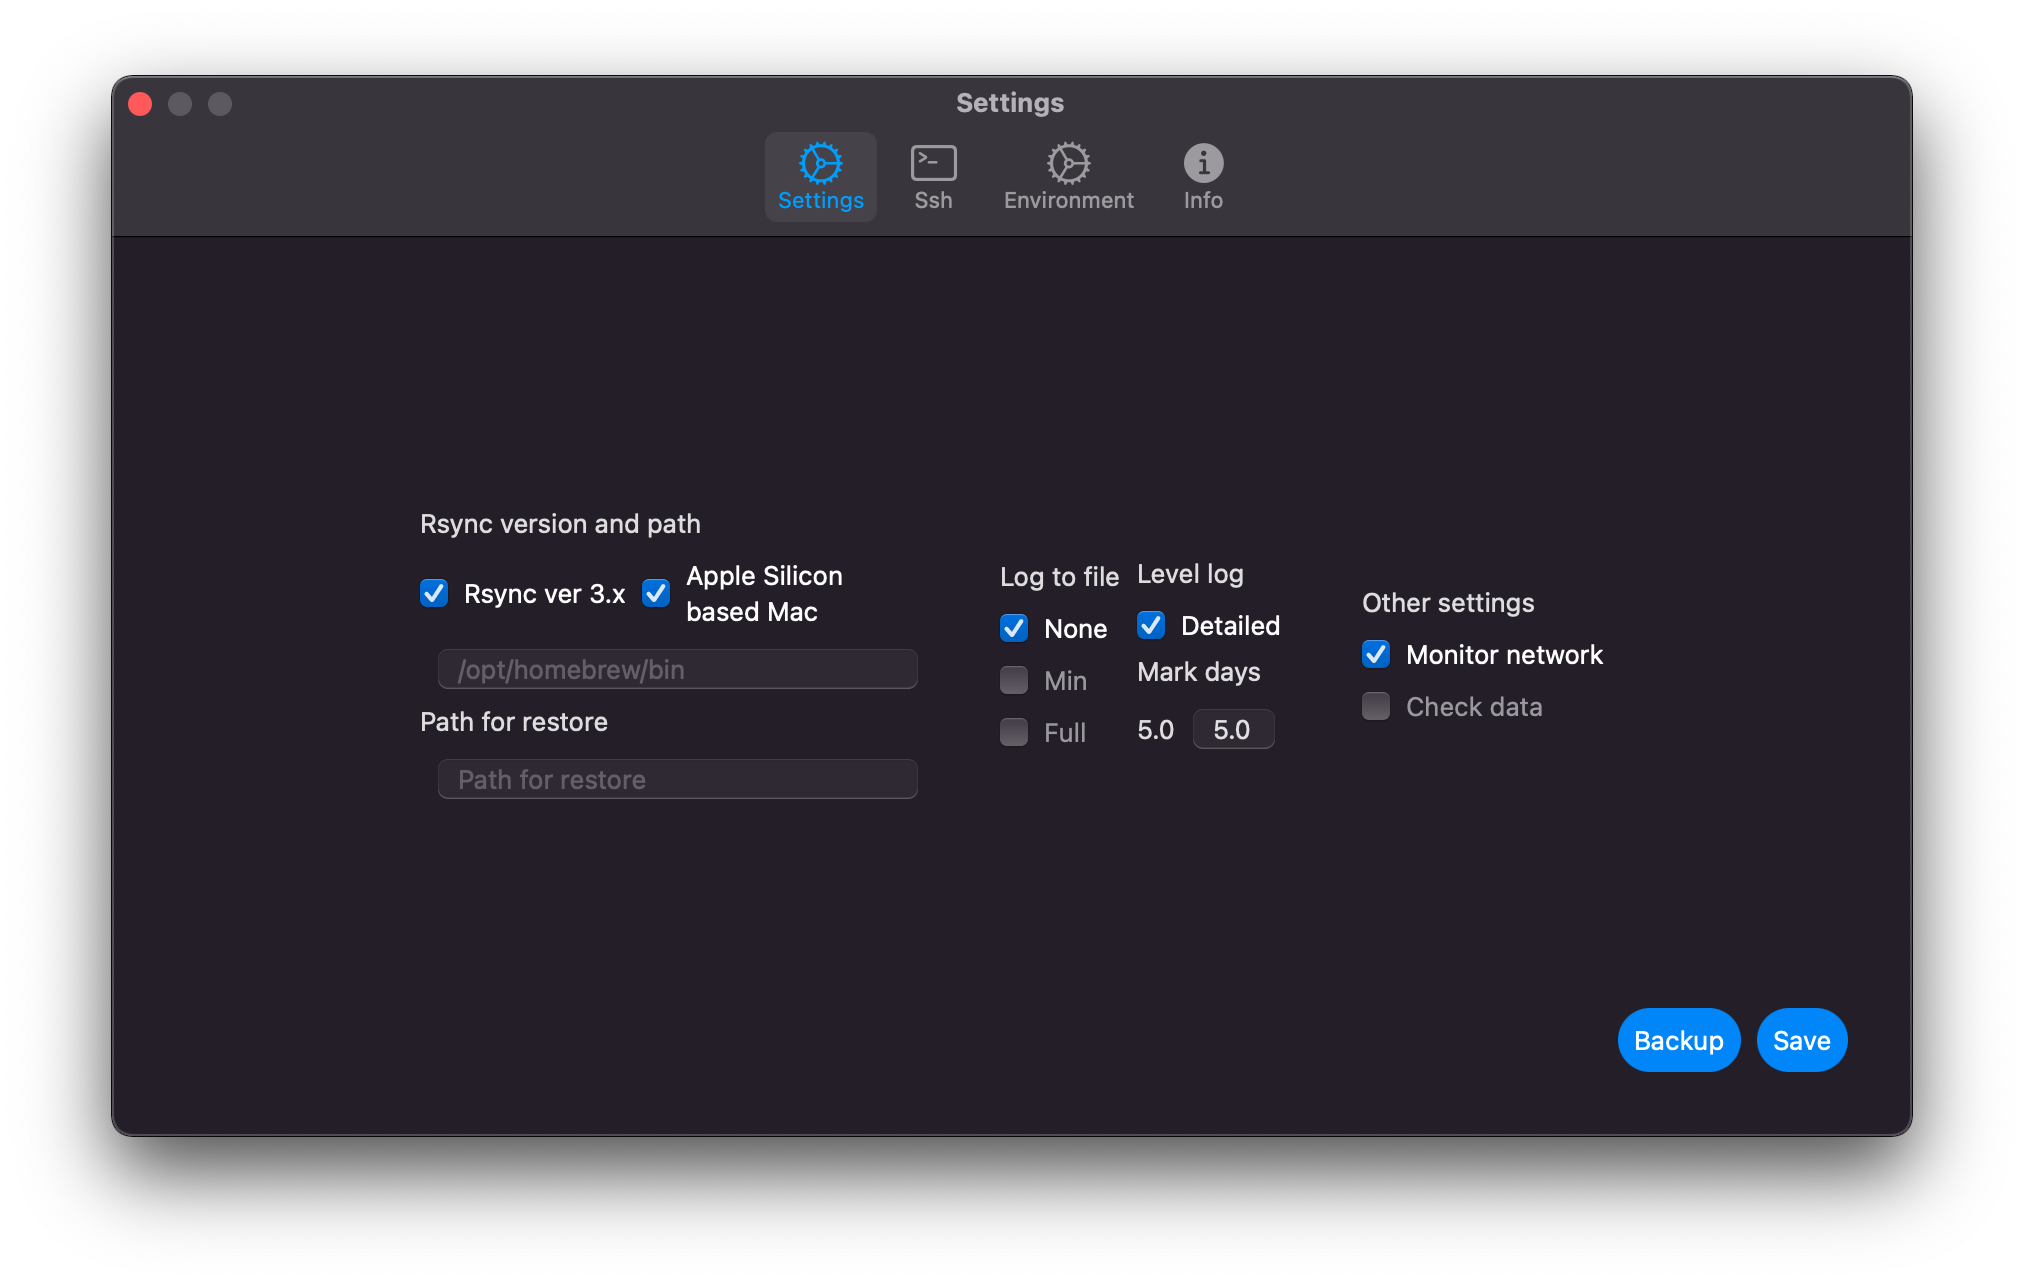
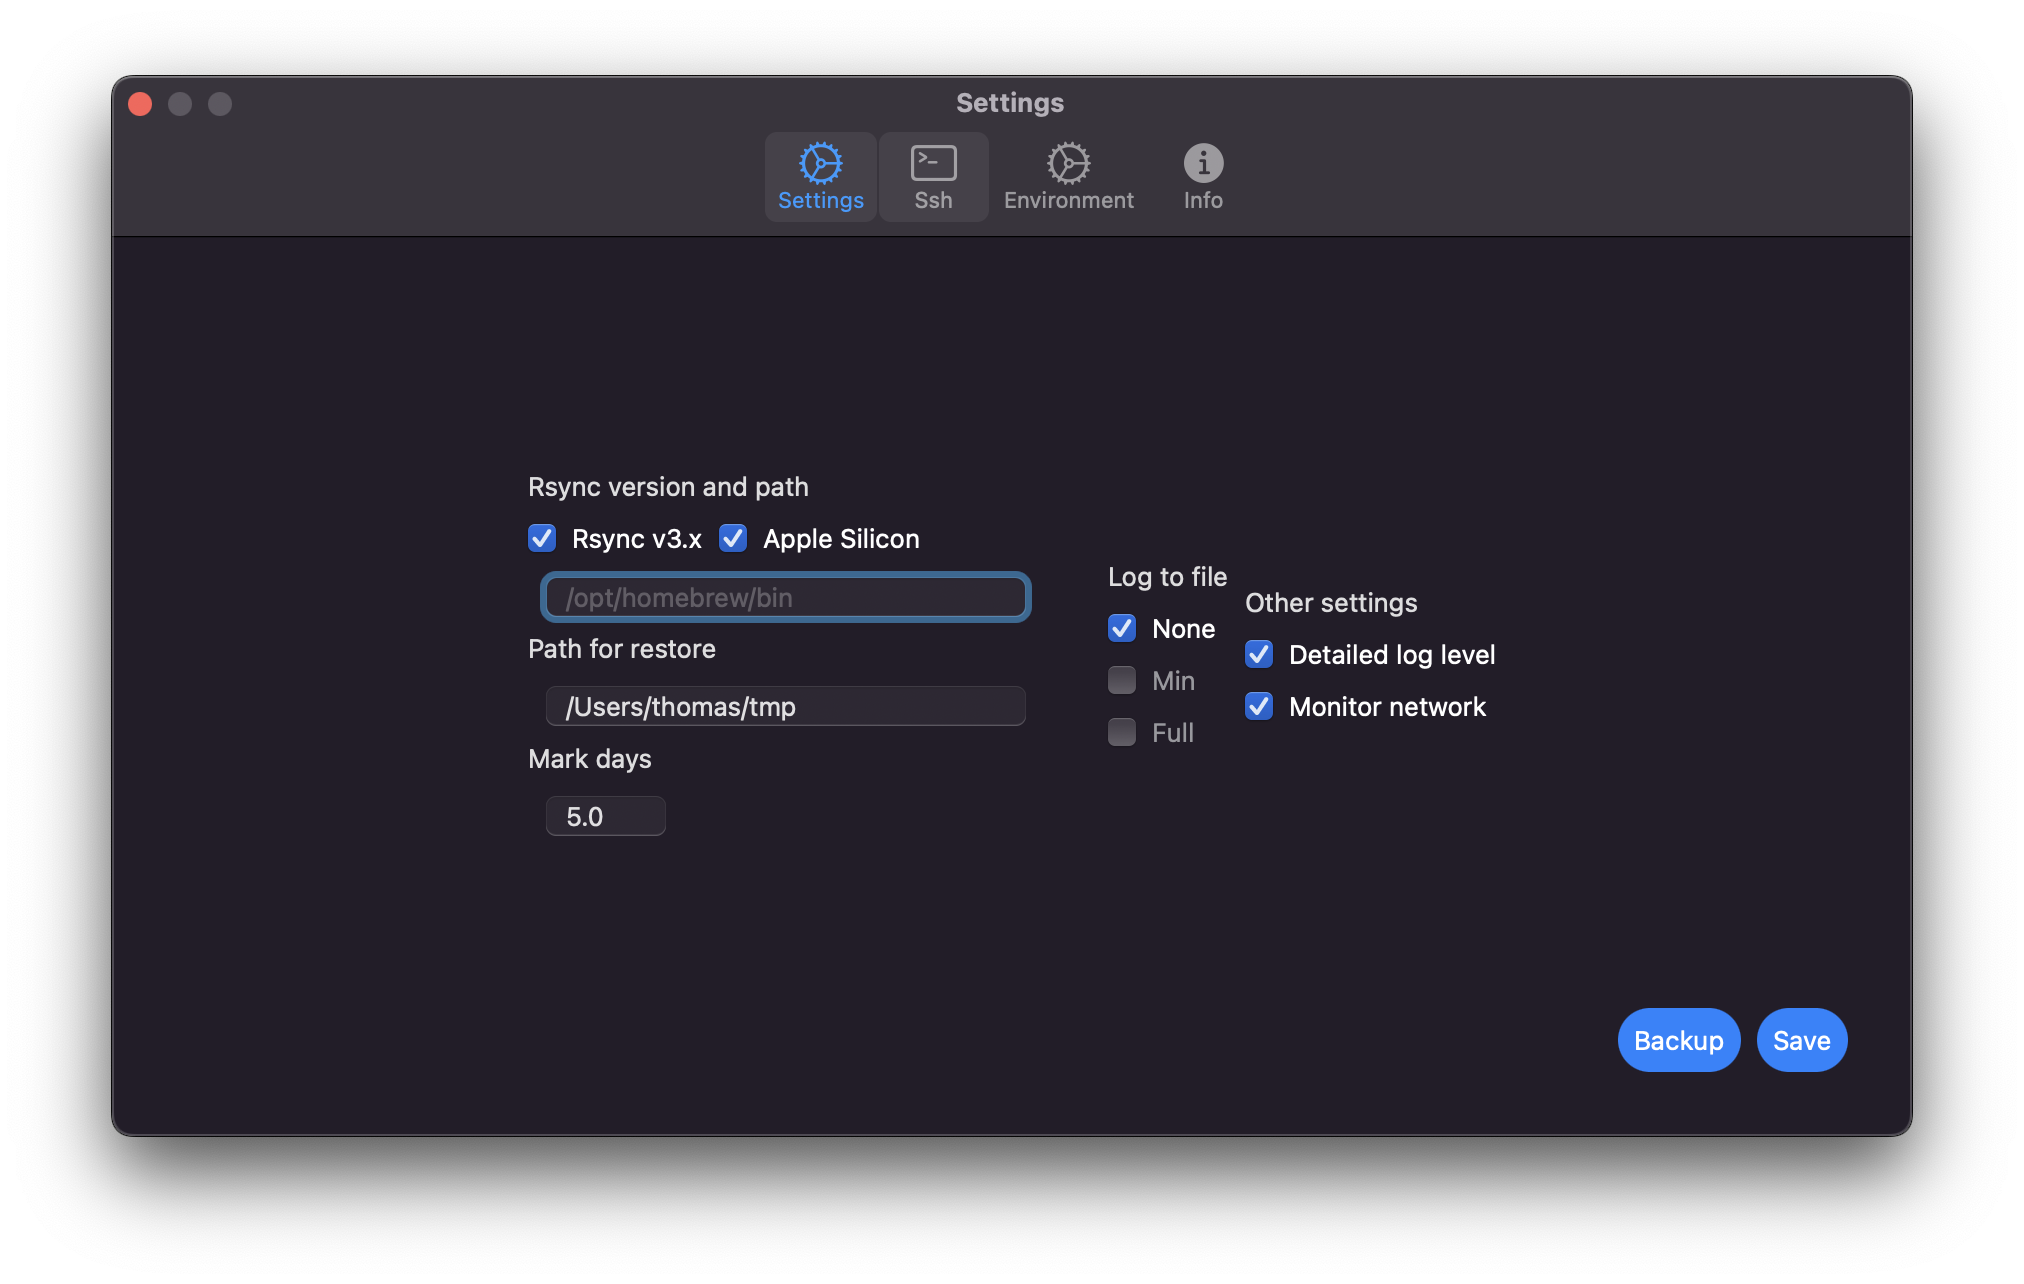
update

Changed region(s): [[0.1868, 0.3738, 0.8093, 0.6542], [0.7782, 0.7788, 0.9338, 0.8411], [0.3735, 0.1246, 0.4358, 0.1558]]

diff --git a/content/post/Normalsettings.md b/content/post/Normalsettings.md
@@ -21,13 +21,17 @@ It is adviced to install rsync as part of Homebrew. RsyncUI discover what type o
  - Rsync v3.x to `on` - set optional path if **NOT** by Homebrew
    	- any version of rsync should work, but only version 2.6.9 and 3.2.x are tested and verified
     - [utilizing the snapshot feature](/post/snapshots/) require version 3.2.x of rsync
-- path for rsync:
+- rsync version and path:
     - if utilized version of rsync is **not** installed by Homebrew set path to rsync
 - path for restore:
     - preset temporary path for restoring single files and catalogs
     - preset temporary path for a full restore
 
 If there is a not valid rsync path is set an error is presented.
+
+## Mark days
+
+Tasks with older execute date than number of days are marked red.
 
 ## Log to file
 
@@ -39,18 +43,8 @@ There is three choices for logging, none, min and full and they are mutually exc
 
 The log file can be inspected by `⌘O` shortcut or by the File menu. The log file is stored at `$HOME/.rsyncosx/macserial/rsynclog.txt`.
 
-## Level log
+## Detailed log level and monitor network
 
 If Detailed is `on` there is a separate log for each run. If `off` only date for last run is saved on the configuration.
 
-## Mark days
-
-Tasks with older execute date than number of days are marked red.
-
-## Monitor network
-
 RsyncUI can monitor the network connection during execution of tasks. If a network connection is dropped during execution, RsyncUI sends an interrupt signal to the task and it halts with an error.
-
-## Check input
-
-By setting check data, RsyncUI will check and if required clean logs. The check data flag is **not** persistent and have to be set each time.
